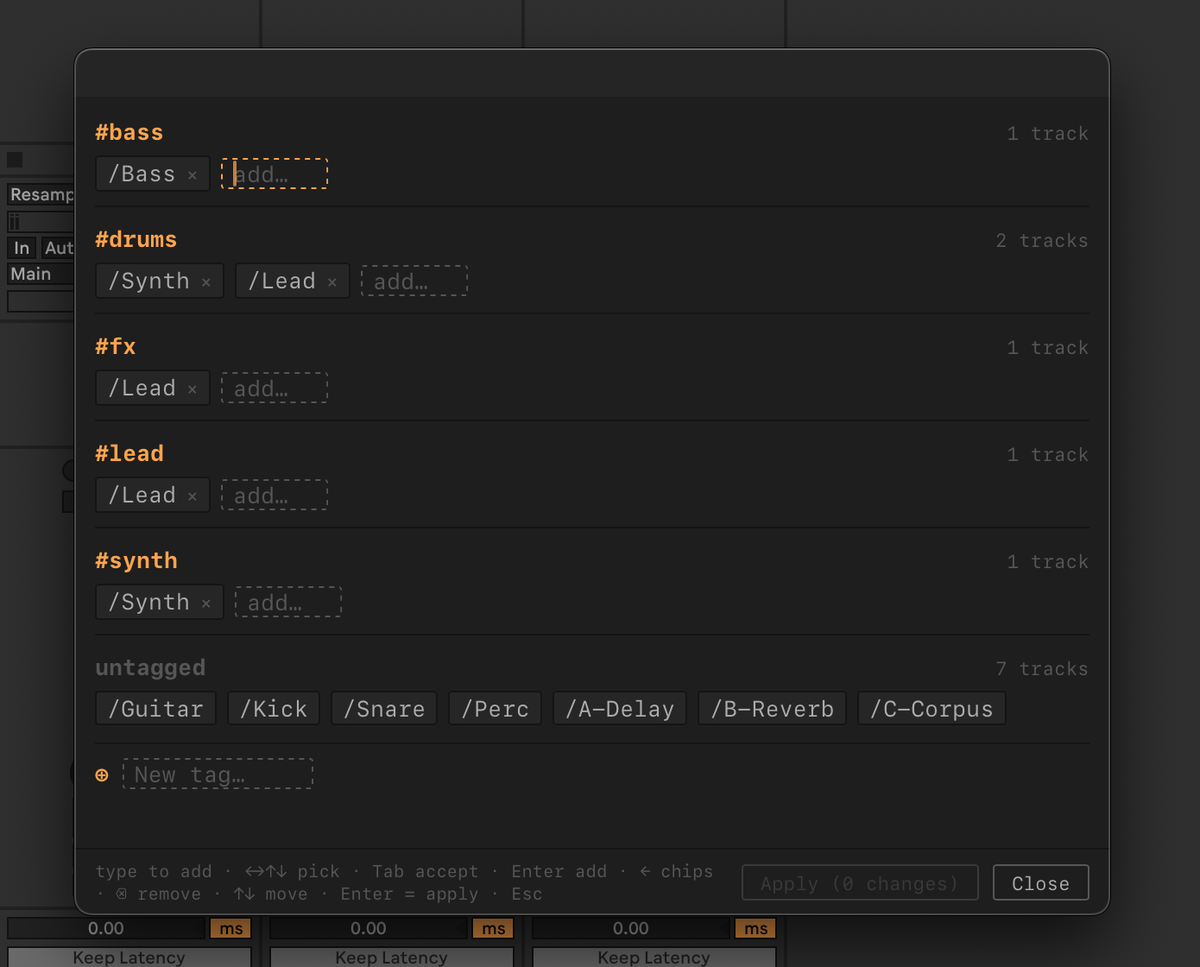
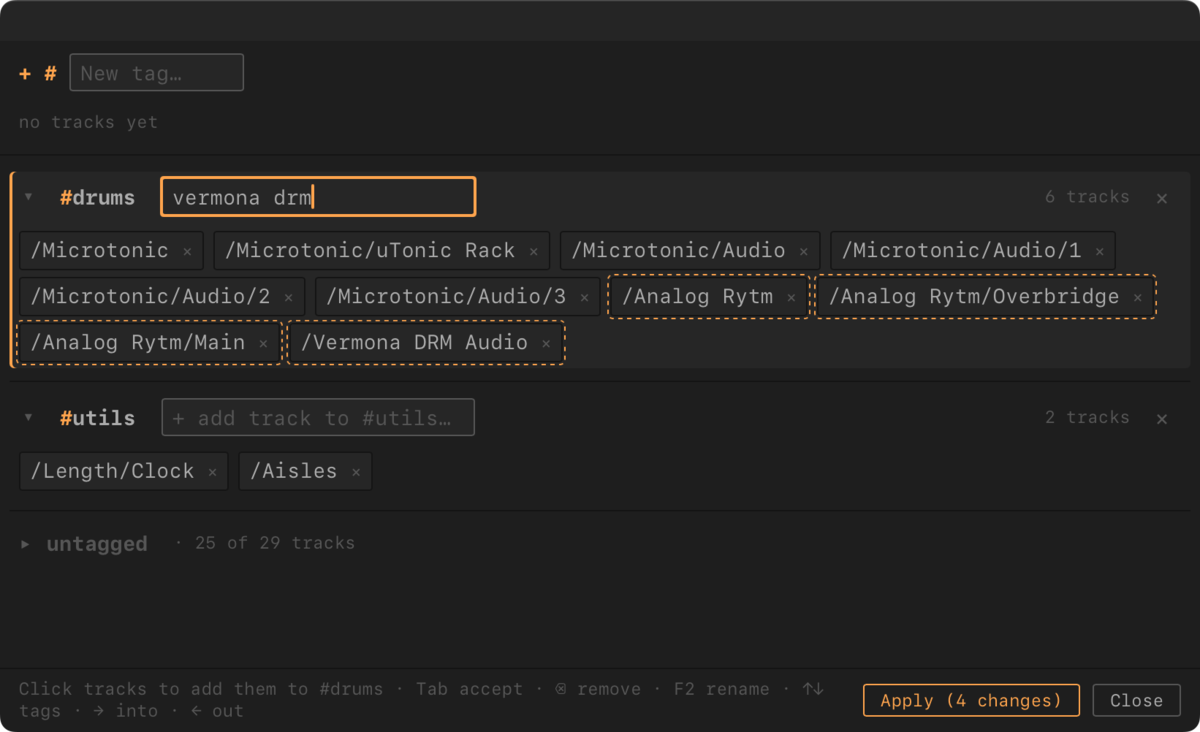
docs(tags): new tag board recording and screenshot, captions, heading-typing key row

diff --git a/docs/using.md b/docs/using.md
@@ -296,9 +296,9 @@ tracks.
 `tag -l` (or `tag --list`) opens the tag board. It shows one section per tag. The board opens with the cursor in the
 **New tag** row.
 
-![Screen recording of the tag board: tag -l opens it; Synth is typed and added to drums; the arrow keys move to the Lead chip under fx and mark it for removal; Enter applies the 2 changes](assets/images/tags.gif)
+![Screen recording of the tag board (tag -l): "analog" is typed into the add field of #drums, → steps into the suggestions and Enter adds three matching tracks while the text stays; "vermona drm" and Enter add one more; Apply shows 4 changes](assets/images/tags.gif)
 
-*`tag -l`: add tracks to tags, mark a chip for removal, apply. The log lists what changed.*
+*`tag -l`: add several tracks to #drums by typing and Enter. Nothing changes in Live until you press Apply.*
 
 Each tag's heading line holds a fold arrow, the tag's name, an **add…** input and the number of tracks. Below it,
 the tag's tracks sit as chips.
@@ -366,6 +366,7 @@ tag, **untagged**); `→` goes in, `←` goes out.
 | A heading | `←` | Folds an open tag. |
 | The **untagged** heading | `→` `Enter` | Unfolds it; again, steps onto the tracks. |
 | A heading | `F2` | Renames the tag. |
+| A heading | typing | Unfolds the tag and types into its **add…** field. On **untagged**, types into the target tag's field (or **New tag**). |
 | An **add…** field | typing | Suggests tracks. |
 | An **add…** field | `Tab` | Completes the text with the highlighted suggestion. It does not add. In an empty field, it moves on as usual. |
 | An **add…** field | `Enter` | Adds the highlighted track. The text and the list stay, unless the added name is exactly what you typed: then the field clears. With no match, nothing is added. In an empty field, it applies. |

diff --git a/README.md b/README.md
@@ -36,7 +36,7 @@ Tag tracks by what they are: `tag /Lead fx synth`. After that, `mute #fx` reache
 opens the tag board, where you add, rename and remove tags. Tags are saved with the Set, and they need
 the [Remote Script](https://marvinhauke.github.io/cmdAbl/remote-script/).
 
-![Screen recording of the tag board: tag -l opens it; Synth is typed and added to drums; the arrow keys move to the Lead chip under fx and mark it for removal; Enter applies the 2 changes](docs/assets/images/tags.gif)
+![Screen recording of the tag board (tag -l): "analog" is typed into the add field of #drums, → steps into the suggestions and Enter adds three matching tracks while the text stays; "vermona drm" and Enter add one more; Apply shows 4 changes](docs/assets/images/tags.gif)
 
 ### A pick list you control
 
